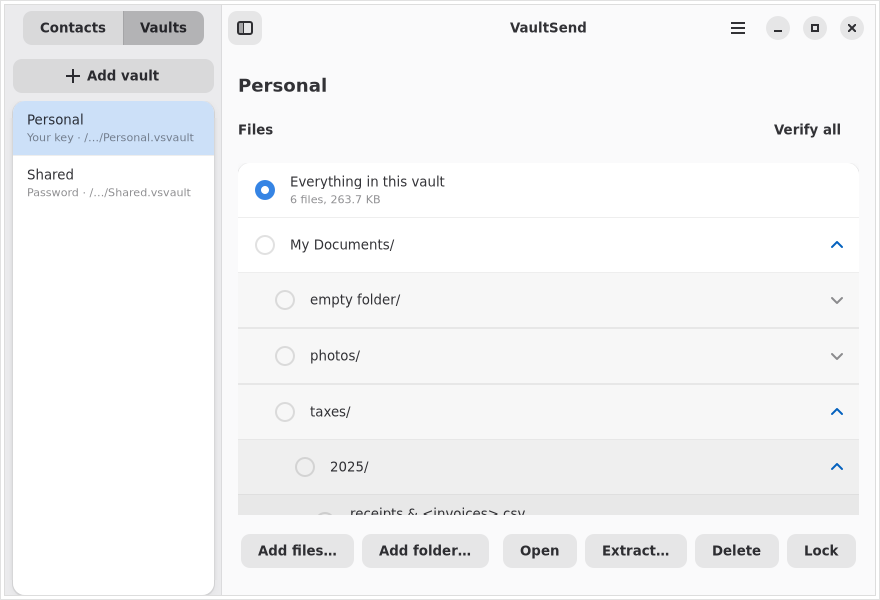
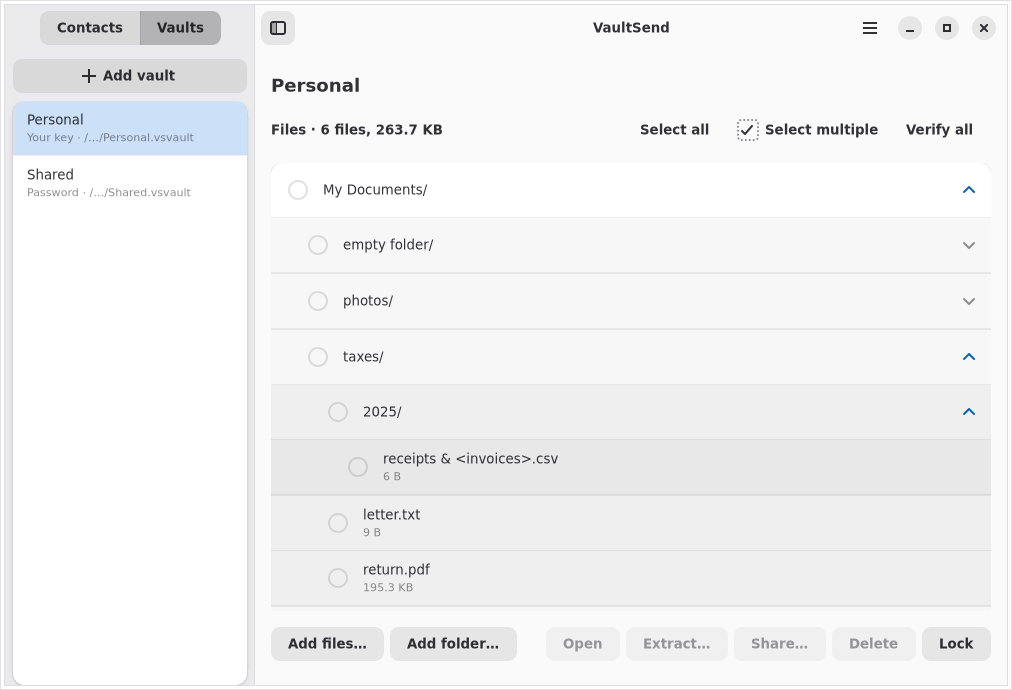
docs: selecting several, Share and dropped vaults; results and screenshots

diff --git a/CHANGES-VAULTS.md b/CHANGES-VAULTS.md
@@ -4,6 +4,7 @@ Record for `feature/vaults`, version 0.2.0 (spec: `VAULTS_PLAN.md`). Local branc
 only; nothing has been pushed.
 
 - [Summary](#summary)
+- [Changes from the owner's testing](#changes-from-the-owners-testing)
 - [Decisions made by the owner](#decisions-made-by-the-owner)
 - [Files touched](#files-touched)
 - [Every existing line changed, and why](#every-existing-line-changed-and-why)
@@ -29,6 +30,65 @@ crate. `FileOperation`, `run_backend`, `spawn_backend` and the audited backend f
 byte-identical to `main`, checked by comparing each definition, except for three the owner
 chose to change so secret buffers are locked in memory: `read_passphrase`, `load_identity` and
 `cmd_keygen`. Those changes are listed below.
+
+---
+
+## Changes from the owner's testing
+
+| # | Asked for | What it does now |
+|---|---|---|
+| 0 | "Everything in this vault" isn't clear | The owner chose to remove the row. **Select all**, **Select multiple** and **Verify all** sit above the list, and the heading shows the vault's totals. Nothing is selected to begin with, so Open, Extract…, Share… and Delete wait for a selection rather than falling back on a hidden default. |
+| 1 | Add folder shouldn't take a file | The chooser is filtered to folders, and the result is checked after, because a desktop's own chooser can ignore a filter. Applies to every folder chooser. |
+| 2 | Share | **Share…** lists contacts, with an *Add new contact* link that opens Add contact over the dialog, so the selection and the place in the flow are kept. Clicking a contact goes on to Save. See below for what's saved. |
+| 3 | Delete on the whole vault does nothing | With everything selected, Delete asks, then empties the vault and leaves it in place. |
+| 4 | Percentages on file operations | Vault operations now show one. See below. Encrypt and Decrypt on the main page already did. |
+| 5 | A bigger window | 1012 x 690, 15% more each way. |
+| 6 | Copyable path in "Remove from list?" | The path is in a selectable label, with a copy button. |
+| 7 | Drop a password vault on the main page | Decrypt, then its password. It opens and joins the list. A wrong password leaves nothing behind. |
+| 8 | The same for key vaults | Unlocks if your key is the one, and otherwise says your key doesn't match, and that it was made for a different recipient or with a different key. |
+| 9 | Create with no name shouldn't close the dialog | Create stays off until the name will do, and a name with `/` also turns the field red. Answering an `Adw.AlertDialog` always closes it, so this is the only way. |
+| 10 | Select several | **Select multiple** has a dotted box that turns blue, and turns the rows into tick boxes. Open, Extract…, Share… and Delete then act on all of them. |
+
+Not asked for, in the same family as 9: Add contact's **Add** also waits for a name and an
+`age1…` key, because a slip there would otherwise throw away what was typed part way through
+Share. The vault page's column went from 680 to 760 pixels, and the action buttons' spacing from 8
+to 6, so that Share… fits on one line at the default size.
+
+**How selecting several works.** Ticking a folder ticks what's in it and stands for all of it;
+unticking something inside unticks the folders above it, so a ticked folder always means the
+whole folder. Every row ticked, by hand or with Select all, means the whole vault. Closing a
+folder clears ticks hidden inside it, unless the folder itself is ticked, as with a single
+selection (`836aeb7`). Open covers the files in anything ticked, and asks first above 10.
+Extracting several makes one new folder, where each keeps its path from the top of the vault, so
+two files with one name can't collide.
+
+**What Share saves.** A plain age file, encrypted to the contact and to you, not a vault: a
+`self` vault only opens for whoever sealed it, so one can't be made for someone else. They need
+only the main page, or the `age` tool. One file stays that file. Anything else becomes a tar
+archive inside the age file, written by `backend/src/tar.rs`, since the plan rules out a new crate
+and this is 75 lines. It only writes, so nothing a stranger sends goes through it. Everything
+verifies in RAM before the output is touched, as with extract.
+
+**How the percentage works.** The backend writes whole percentages, one per line, to a pipe
+given by `--progress-fd`. The frontend can't read the backend's memory (`harden_process`), and a
+vault write has no single growing file to measure. The reports are numbers only, 101 lines at
+most, and the pipe is non-blocking at both ends, so a report can never hold up the work. Copying
+to the output counts as well as decrypting, so the bar doesn't sit at 100% through the slow part.
+The bar pulses until the first report, while the key unlocks, and again once the work is done but
+not yet committed. Deleting has no bytes to count, so it counts blobs. It's a measure of work done,
+not of time, so a file much larger than the rest moves it in step with its size.
+
+**Emptying a vault** has its own flag, `vault-remove --all`. `--entry /` is still refused, as a
+test has always required, so no path, however it got built, can mean this by accident.
+
+**Audited code.** `FileOperation`, `run_backend` and `spawn_backend` are still byte-identical to
+`main`, checked by comparing each definition. `VaultOperation.start` repeats a few lines to add
+the pipe, as `_finish` already does. `main.rs` gained only `mod tar`, the dispatch for
+`vault-share`, and its name in two messages.
+
+**Not tested:** a real drag from a file manager (the run-through calls the drop handler with a
+real `Gdk.FileList`), several real apps opening at once, and any desktop's own chooser, where only
+the check after choosing can be relied on. These are worth a manual check.
 
 ---
 
@@ -95,6 +155,7 @@ written. See the threat model below.
 | File | What |
 |---|---|
 | `backend/src/vault.rs` | New. All vault logic and its unit tests. |
+| `backend/src/tar.rs` | New. Writes the archive Share uses for a folder or several items, with its unit tests. |
 | `backend/src/main.rs` | `mod vault;`, one dispatch arm, usage text. |
 | `backend/Cargo.toml`, `Cargo.lock` | `sha2` and `rand` as direct dependencies, version, test profile. |
 | `frontend/app.py` | Sidebar toggle, vault page, dialogs, registry, passphrase cache. |
@@ -191,13 +252,16 @@ vault-create  --dir P --mode self --pass-fd N
 vault-create  --dir P --mode password --pass-fd N
 vault-list    --dir P --pass-fd N
 vault-add     --dir P --pass-fd N --src PATH [--src PATH]... [--dest VAULTDIR] [--replace]
-vault-remove  --dir P --pass-fd N --entry VAULTPATH
-vault-extract --dir P --pass-fd N --entry VAULTPATH --out PATH
+vault-remove  --dir P --pass-fd N --entry VAULTPATH [--entry VAULTPATH]...
+vault-remove  --dir P --pass-fd N --all
+vault-extract --dir P --pass-fd N --entry VAULTPATH [--entry VAULTPATH]... --out PATH
+vault-share   --dir P --pass-fd N --entry VAULTPATH [--entry VAULTPATH]... --to AGE1.. [--to AGE1..]... --out PATH
 vault-check   --dir P --pass-fd N
 ```
 
 `--pass-fd` carries the identity passphrase for a `self` vault and the vault password
-for a `password` vault. `--entry /` means the whole vault.
+for a `password` vault. `--entry /` means the whole vault, except to `vault-remove`, which
+refuses it. Anything that opens a vault also takes `--progress-fd N`.
 
 ---
 
@@ -430,14 +494,14 @@ Places this differs from, or adds to, what the plan says:
 | `VaultOperation` subclass, not `total=None` in `FileOperation` | §4.2 allowed the smallest change to `FileOperation`. A subclass needs none, so it stays byte-identical, at the cost of repeating a few lines of `_finish`. |
 | Only changes re-list, not "every op" (§4.2) | Extract and verify change nothing, and a re-list costs a scrypt with the window frozen. |
 | A **Verify all** button beside the "Files" heading | §4.2 lists check as a frontend operation, but its action bar has no button for it. The bar itself matches the plan. |
-| An "Everything in this vault" row | What Extract acts on when nothing else is selected, so there's no hidden default. |
+| Select all, in place of the "Everything in this vault" row | The row was there so Extract had no hidden default. The owner found it unclear and chose this instead: nothing is selected until you choose, so there's still no hidden default. |
 | Nested `Adw.ExpanderRow`s kept as §4.2 says, plus an indent per level and CSS corrections | libadwaita doesn't indent nested rows, and its arrow rule matches every arrow below an open row, so a closed folder inside an open one looked open. Each radio now gets a `margin_start` by depth, and one CSS rule restores the closed arrow. Another stops the per-level shading, which left text unreadable around 40 levels. Indent and shading stop at `INDENT_LEVELS`, because the list can't scroll sideways: with no cap, 40 levels widened the window from 870 to 1110 pixels. A flat list wouldn't need the CSS but would depart from the plan. The arrow rule depends on libadwaita's internal row structure, which is the same on 1.5.0 and 1.7.6; if that changes, the arrow goes back to looking open and the GUI run-through fails. |
 | Vault errors are dialogs, not toasts | A failed integrity check shouldn't fade away by itself. |
 | A file with a name colliding on extract is an error | `open_private_new` would replace it, and "A" and "a" are one file on a case-insensitive disk. |
 | Clippy gate runs on Rust 1.85.0 | On untouched `main`, `clippy -D warnings` under 1.75.0 already fails on `File::open(&p)` in `identity_is_valid`, a lint later narrowed. That line is audited, so it stays. Build and tests run on both. |
 | `tests/vault_gui_check.sh` and `vault_gui_driver.py` | Not asked for. They make the Phase 4 run-through and §5.3 repeatable. |
 | `tests/vault_attack.py` | Not asked for. It makes the attacks on the backend repeatable. |
-| `vault.rs` is 834 lines without its tests | Over the budget of ~800, after the owner raised it from ~550. It was 804 before `key.age` was sealed, which took it to 817, and refusing FIFOs and locking secret buffers added the rest. |
+| `vault.rs` is about 1,075 lines without its tests | Over the budget of ~800, after the owner raised it from ~550. It was 804 before `key.age` was sealed, which took it to 817, and refusing FIFOs and locking secret buffers took it to 834. Progress, acting on several entries and `vault-share` added the rest. The tar writer is in its own file. |
 
 ---
 
@@ -447,18 +511,19 @@ Run from the final tree:
 
 | Check | Result |
 |---|---|
-| `cargo test --locked`, Rust 1.75.0 and 1.85.0 | 30 passed, 0 failed, on both |
+| `cargo test --locked`, Rust 1.75.0 and 1.85.0 | 48 passed, 0 failed, on both |
 | `cargo clippy --locked --all-targets -- -D warnings`, 1.85.0 | Clean |
 | `cargo build --release --locked`, 1.75.0 | OK |
-| `tests/verify_deps.sh` | All 8 crates match `Cargo.lock` and crates.io; no `[[package]]` added |
-| `tests/vault_roundtrip.sh` | 103 passed, 0 failed; 104 of 104 where `strace` is available |
+| `tests/verify_deps.sh` | All 8 crates match `Cargo.lock` and crates.io; no `[[package]]` added. Not re-run after the owner's testing, since `Cargo.toml` and `Cargo.lock` are unchanged since |
+| `tests/vault_roundtrip.sh` | 131 passed, 0 failed, with `strace` |
 | strace proof | The last blob is opened before the output path is first touched |
-| `tests/test_frontend_helpers.py` | 38 passed, on both GTK versions below |
-| `tests/vault_gui_check.sh`, Debian trixie: Python 3.13, GTK 4.18.6, libadwaita 1.7.6 | 149 passed, 0 failed |
-| `tests/vault_gui_check.sh`, Ubuntu 24.04: Python 3.12, GTK 4.14.5, libadwaita 1.5.0 | 149 passed, 0 failed |
+| `tests/test_frontend_helpers.py` | 51 passed, on both GTK versions below |
+| `tests/vault_gui_check.sh`, Debian trixie: Python 3.13, GTK 4.18.6, libadwaita 1.7.6 | 247 passed, 0 failed |
+| `tests/vault_gui_check.sh`, Ubuntu 24.04: Python 3.12, GTK 4.14.5, libadwaita 1.5.0 | 247 passed, 0 failed |
 | `tests/vault_attack.py`, with the `age` tool | 216 passed, 0 failed |
 
-All of these ran on the final code, `a48985e`. With secret buffers locked, strace under a 64 KB
+These ran on the final code for the owner's testing round, on top of `ded68f5`. The only later
+change is one line of the GUI driver, moving when a screenshot is taken. With secret buffers locked, strace under a 64 KB
 limit shows `mlockall` failing and every `mlock` succeeding, for key creation and for creating
 and opening both kinds of vault. These are from separate scripts that aren't in the repo. They
 ran on `fe80c05`, before the last two commits (a dialog's wording, how a long contact name wraps,
@@ -538,7 +603,7 @@ Wayland: openbox on X11 is the only real window manager tested.
 | | SHA-256 |
 |---|---|
[3 lines of base64/hex data omitted]
 
 Registry `.crate` files, each matching both `Cargo.lock` and the checksum crates.io
 publishes (`tests/verify_deps.sh`):
@@ -575,6 +640,16 @@ looked at before committing.
 | `09-forged-key-refused.png` | Added: a forged `key.age` refused outright, with Close as the only choice. |
 | `10-open-warning.png` | Added: the plaintext warning on first Open, with I understand and Cancel. The Open button is in the action bar behind it. |
 | `11-open-changes-lost.png` | Added: Lock with an edited copy, naming the file. |
+| `04b-create-needs-a-name.png` | Added: Add vault with no name yet, and Create off. |
+| `12-dropped-vault.png` | Added: a vault dropped on the main page, offering Decrypt. |
+| `13-key-mismatch.png` | Added: someone else's key vault, with your key not matching. |
+| `14-progress.png` | Added: a percentage on a vault operation. |
+| `15-add-folder-chooser.png` | Added: the Add folder chooser, showing only folders. |
+| `16-selector-off.png`, `17-selector-on.png` | Added: Select multiple off, with its dotted box, and on, with the box blue. |
+| `18-share.png`, `19-share-add-contact.png`, `20-share-with-new-contact.png` | Added: Share, adding a contact on top of it, and back with them listed. |
+| `21-delete-everything.png` | Added: Delete with everything selected, asking first. |
+| `22-remove-from-list.png` | Added: Remove from list, with the path selectable and a copy button. |
+| `23-select-all.png`, `24-empty-vault.png` | Added: everything ticked, with Select all now offering Select none; and an empty vault, with nothing to act on. |
 
 ---
 

diff --git a/README.md b/README.md
@@ -25,8 +25,8 @@ are two parts and a hard line between them:
 - **`backend/`** — a tiny Rust command-line tool. It is the **only** component
   that ever touches your private key. All cryptography is delegated to the `age`
   crate; the backend itself contains no hand-written crypto, just plumbing and
-  process hardening (~515 lines in `main.rs`, and ~800 more in `vault.rs` for
-  vaults, plus that file's tests).
+  process hardening (~515 lines in `main.rs`, ~1,050 more in `vault.rs` for vaults,
+  and 75 in `tar.rs` for sharing folders, plus those files' tests).
 - **`frontend/`** — a GTK 4 / libadwaita app in Python. It draws the window and
   keeps your contact list. It **never sees your private key** — when a passphrase
   is needed it hands it to the backend over a private pipe and forgets it (unless
@@ -251,10 +251,20 @@ what lets this device notice a rolled-back vault.
   protect it. A vault using your key opens only with your private key, so making one asks
   for your passphrase. Select a vault and **Unlock** it to see its files. **Add files…**, **Add
   folder…** or dropping files adds them (into the selected folder, if one is selected).
-  **Extract…** and **Delete** act on the selected row; **Extract…** on *Everything in
-  this vault* extracts it all. Removing a vault from the list only forgets it; its
-  files stay where they are. **Add existing vault…** re-attaches a vault after a
-  restore, or one someone shared with you.
+  **Open**, **Extract…**, **Share…** and **Delete** act on what's selected, and wait until
+  something is. **Select multiple**, above the list, turns the rows into tick boxes so
+  they act on several at once, and **Select all** ticks every row. Extracting several
+  makes one new folder, where each keeps its path from the top of the vault. Removing a
+  vault from the list only forgets it; its files stay where they are. **Add existing
+  vault…** re-attaches a vault after a restore, or one someone shared with you.
+- **Opening a vault from outside the list:** drop its folder on the main page's text box
+  and click **Decrypt**. A password vault asks for its password. A vault using a key
+  unlocks if yours is the key, and otherwise says your key doesn't match. Once open, it's
+  added to your vaults.
+- **Sharing from a vault:** select something, click **Share…**, and pick a contact, or
+  click *Add new contact* to add one on the way. You then choose where to save a file
+  that only you and they can read, to send however you like. They decrypt it on the main
+  page. One file stays that file; a folder or several items arrive as a `.tar` archive.
 - **Opening a file from a vault:** select it and click **Open**. It opens in its default
   app from a copy in memory, which is deleted when you lock the vault or close VaultSend.
   Changes aren't saved back to the vault: to keep them, use **Save As** in that app, then
@@ -279,10 +289,19 @@ vaultsend-backend vault-create  --dir P --mode self --pass-fd N       # your pas
 vaultsend-backend vault-create  --dir P --mode password --pass-fd N   # at least 10 characters
 vaultsend-backend vault-list    --dir P --pass-fd N                   # names and sizes only
 vaultsend-backend vault-add     --dir P --pass-fd N --src PATH [--src PATH]... [--dest VAULTDIR] [--replace]
-vaultsend-backend vault-remove  --dir P --pass-fd N --entry VAULTPATH
-vaultsend-backend vault-extract --dir P --pass-fd N --entry VAULTPATH --out PATH   # "/" is the whole vault
+vaultsend-backend vault-remove  --dir P --pass-fd N --entry VAULTPATH [--entry VAULTPATH]...
+vaultsend-backend vault-remove  --dir P --pass-fd N --all             # empty the vault, keep the vault
+vaultsend-backend vault-extract --dir P --pass-fd N --entry VAULTPATH [--entry VAULTPATH]... --out PATH   # "/" is the whole vault
+vaultsend-backend vault-share   --dir P --pass-fd N --entry VAULTPATH [--entry VAULTPATH]... --to AGE1.. [--to AGE1..]... --out PATH
 vaultsend-backend vault-check   --dir P --pass-fd N                   # verify every file in RAM
 ```
+
+Any vault command that opens a vault also takes `--progress-fd N`: whole percentages, one
+per line, on that descriptor. It carries numbers only, and a report that doesn't fit is
+dropped rather than waited on, so give it a non-blocking pipe.
+
+`vault-share` writes an ordinary age file, readable with `vaultsend-backend decrypt` or the
+`age` tool. A single file stays that file; anything else is a tar archive inside the age file.
 
 Secrets are never passed as arguments (those are visible to other processes):
 the passphrase is read from the file descriptor named by `--pass-fd`. File data
